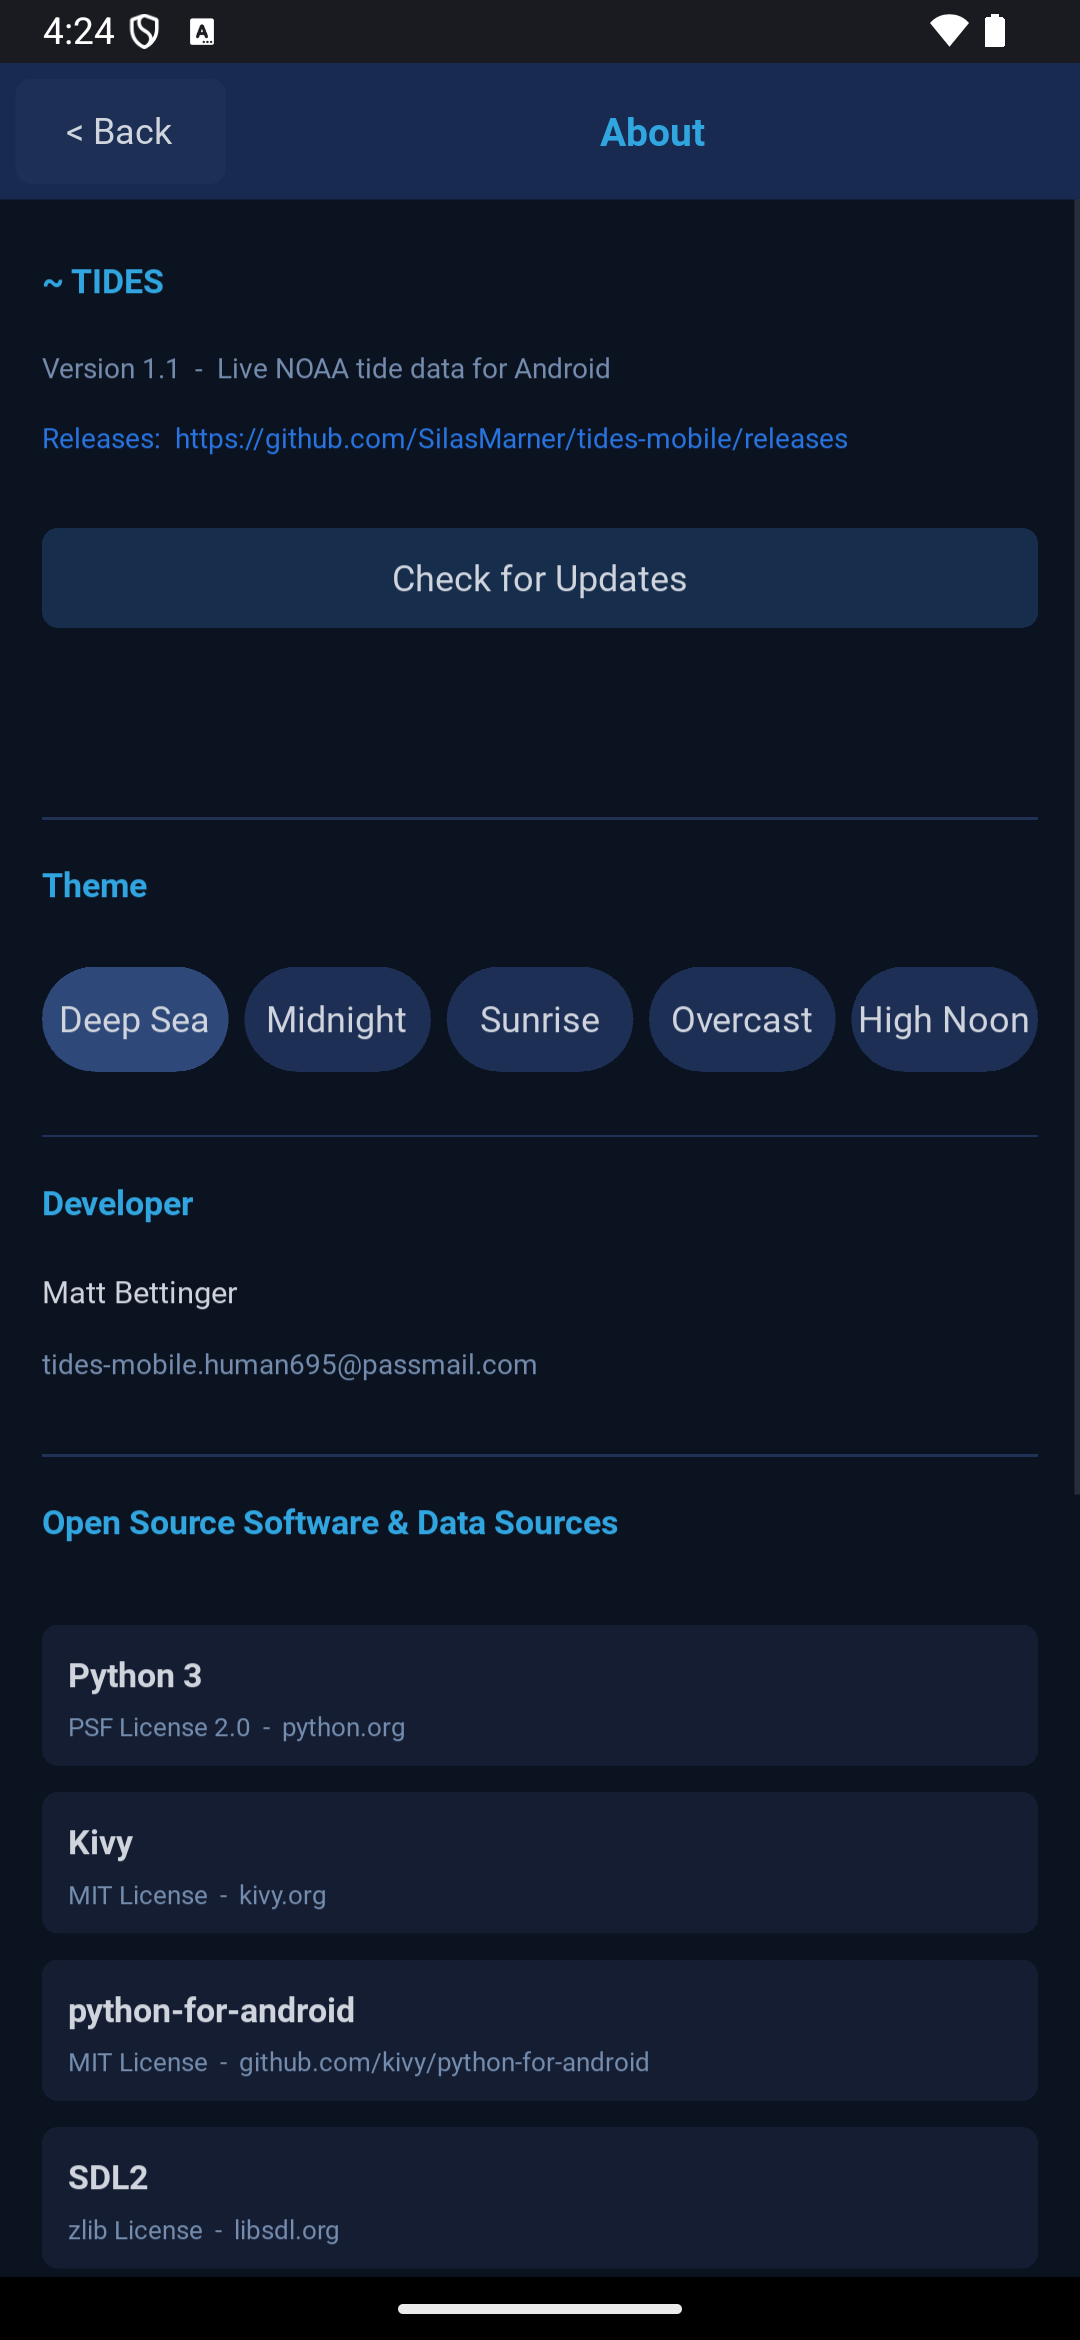
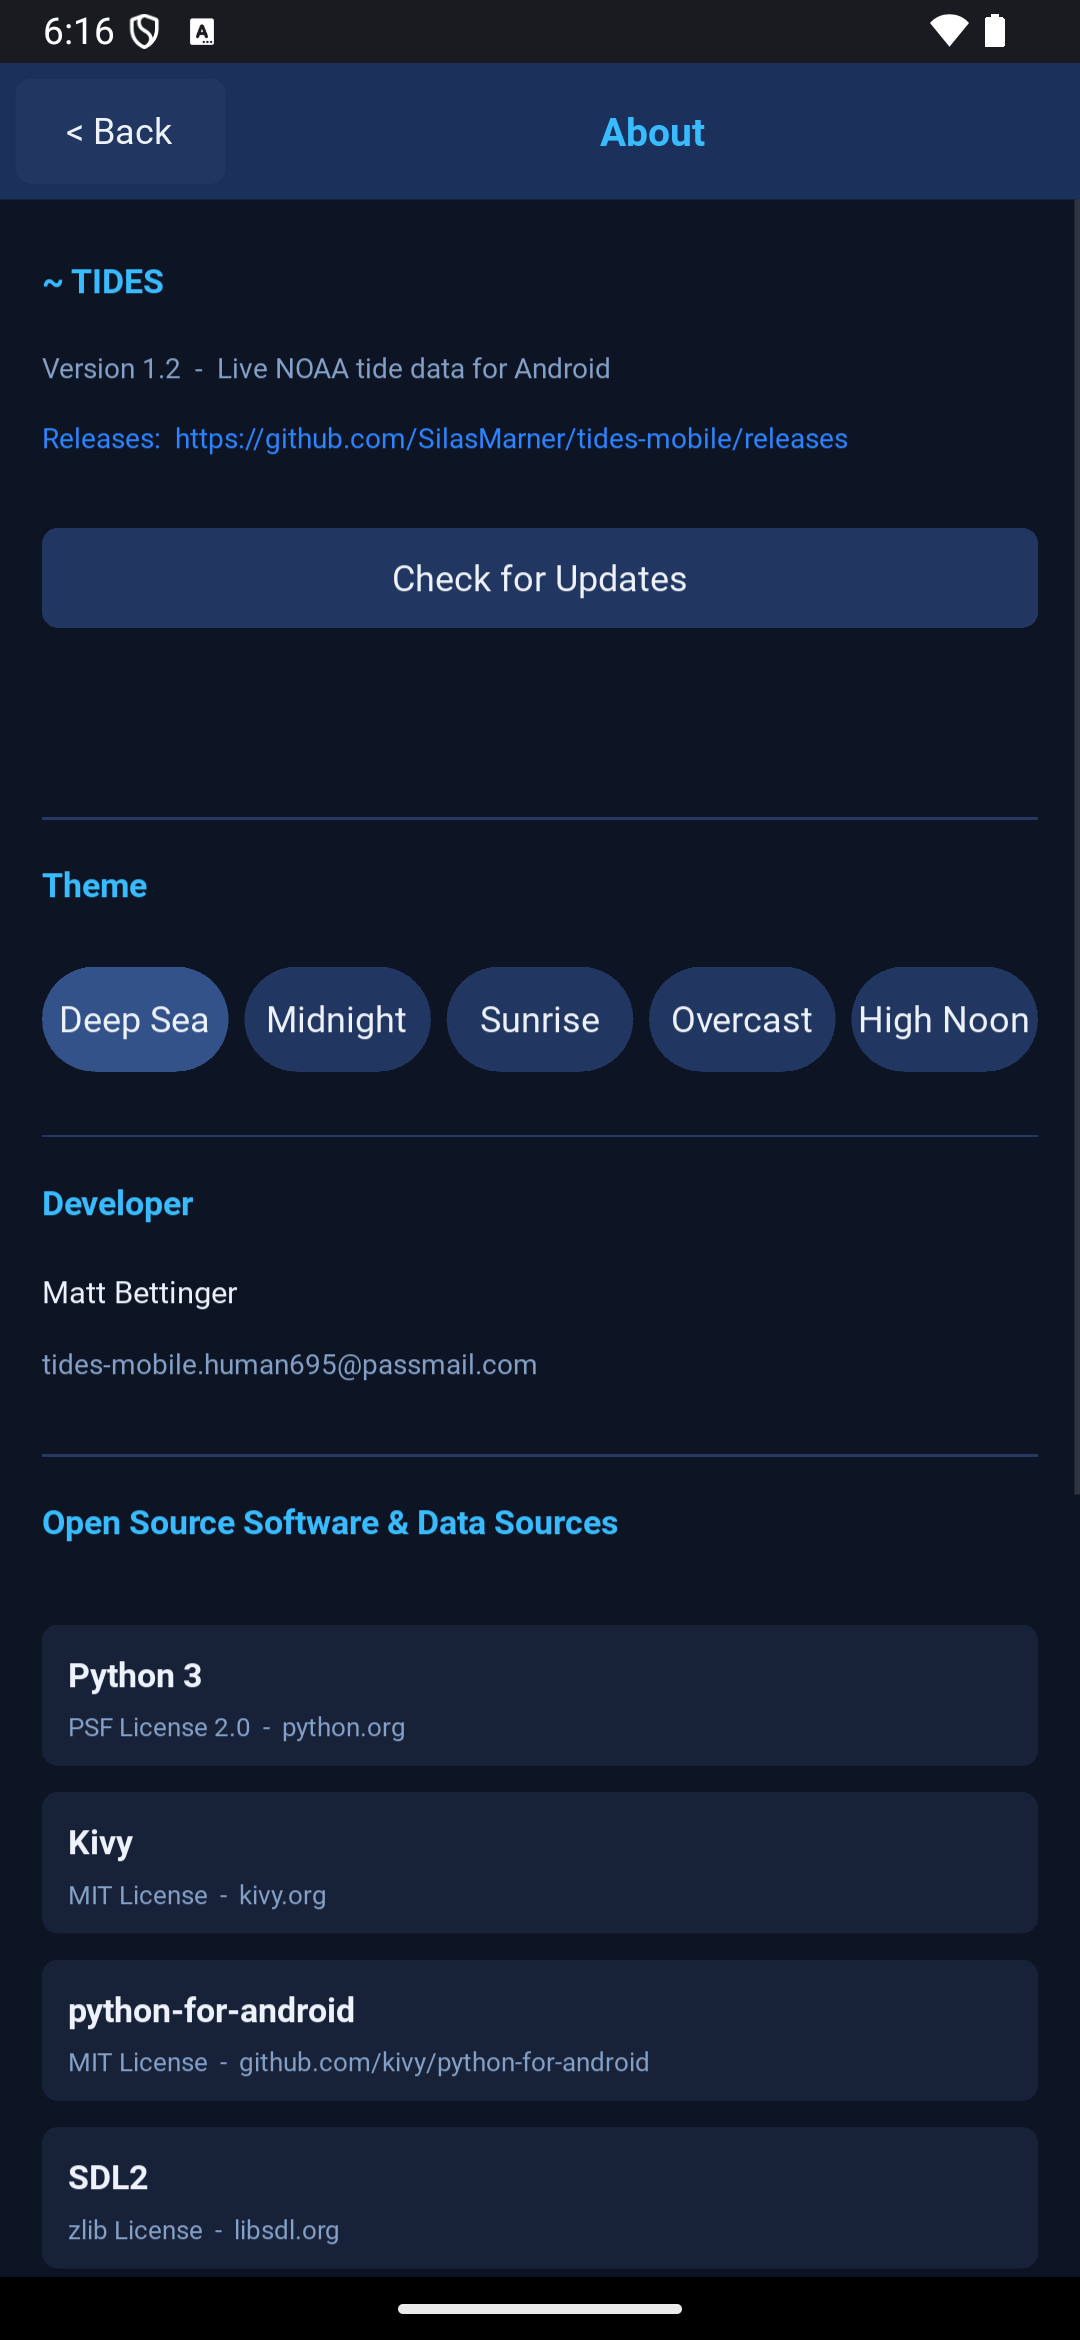
v1.2 — theme persistence, button legibility fixes
- Save settings with os.fsync before SIGKILL so theme survives restart
- Call set_data_dir(user_data_dir) before _apply_theme() in build() so
  the correct Android path is used for both reads and writes
- Fix _btn/_lbl/_StyledButton default parameters (bg=C_BTN etc.) captured
  Deep Sea values at import time; now resolved in function body so all
  themes get correct button colors
- Remove hardcoded Deep Sea-specific bg colors from i, NWS Forecast,
  Check for Updates, and Save to Favorites buttons
- Bump version to 1.2; update screenshots

diff --git a/main.py b/main.py
@@ -10,7 +10,7 @@ import urllib.request
 import webbrowser
 from datetime import datetime, date, timedelta
 
-_APP_VERSION = "1.1"
+_APP_VERSION = "1.2"
 _RELEASES_URL = "https://github.com/SilasMarner/tides-mobile/releases"
 _RELEASES_API = "https://api.github.com/repos/SilasMarner/tides-mobile/releases/latest"
 
@@ -138,6 +138,35 @@ def _load_theme():
     name = td.load_settings().get("theme", "Deep Sea")
     return name, THEMES.get(name, THEMES["Deep Sea"])
 
+def _apply_theme(name=None):
+    """Re-read settings (or apply name directly) and update all C_* globals in-place.
+    Called in build() after set_data_dir() so Android uses the correct path."""
+    global _THEME_NAME, _t
+    global C_BG, C_PANEL, C_CARD, C_HEADER, C_TEXT, C_DIM
+    global C_CYAN, C_YELLOW, C_BLUE, C_AMBER, C_GREEN, C_RED, C_PURPLE
+    global C_BTN, C_BTN_HI, C_NEARBY, C_FAV
+    if name is None:
+        name = td.load_settings().get("theme", "Deep Sea")
+    _THEME_NAME = name
+    _t = THEMES.get(name, THEMES["Deep Sea"])
+    C_BG      = _t["C_BG"]
+    C_PANEL   = _t["C_PANEL"]
+    C_CARD    = _t["C_CARD"]
+    C_HEADER  = _t["C_HEADER"]
+    C_TEXT    = _t["C_TEXT"]
+    C_DIM     = _t["C_DIM"]
+    C_CYAN    = _t["C_CYAN"]
+    C_YELLOW  = _t["C_YELLOW"]
+    C_BLUE    = _t["C_BLUE"]
+    C_AMBER   = _t["C_AMBER"]
+    C_GREEN   = _t["C_GREEN"]
+    C_RED     = _t["C_RED"]
+    C_PURPLE  = _t["C_PURPLE"]
+    C_BTN     = _t["C_BTN"]
+    C_BTN_HI  = _t["C_BTN_HI"]
+    C_NEARBY  = _t["C_NEARBY"]
+    C_FAV     = _t["C_FAV"]
+
 _THEME_NAME, _t = _load_theme()
 
 # ── Palette ───────────────────────────────────────────────────────────────────
@@ -164,10 +193,10 @@ _MESH_FMT = [('vPosition', 2, 'float'), ('vTexCoords0', 2, 'float')]
 
 # ── Shared helpers ────────────────────────────────────────────────────────────
 
-def _lbl(text, font_size=14, color=C_TEXT, bold=False,
+def _lbl(text, font_size=14, color=None, bold=False,
          halign="left", height=None, **kw):
-    l = Label(text=text, font_size=sp(font_size), color=color, bold=bold,
-              halign=halign, valign="middle", **kw)
+    l = Label(text=text, font_size=sp(font_size), color=color if color is not None else C_TEXT,
+              bold=bold, halign=halign, valign="middle", **kw)
     if height is not None:
         l.size_hint_y = None
         l.height = dp(height)
@@ -176,9 +205,11 @@ def _lbl(text, font_size=14, color=C_TEXT, bold=False,
 
 
 def _btn(text, on_press=None, font_size=14, height=44,
-         bg=C_BTN, bg_hi=C_BTN_HI, radius=8, **kw):
+         bg=None, bg_hi=None, radius=8, **kw):
     b = _StyledButton(text=text, font_size=sp(font_size), color=C_TEXT,
-                      bg_color=bg, bg_hi_color=bg_hi, radius=radius,
+                      bg_color=bg if bg is not None else C_BTN,
+                      bg_hi_color=bg_hi if bg_hi is not None else C_BTN_HI,
+                      radius=radius,
                       size_hint_y=None, height=dp(height), **kw)
     if on_press:
         b.bind(on_press=on_press)
@@ -229,14 +260,15 @@ class _SectionHeader(BoxLayout):
 
 
 class _StyledButton(ButtonBehavior, BoxLayout):
-    def __init__(self, text="", font_size=sp(14), color=C_TEXT,
-                 bg_color=C_BTN, bg_hi_color=C_BTN_HI, radius=8, **kw):
+    def __init__(self, text="", font_size=sp(14), color=None,
+                 bg_color=None, bg_hi_color=None, radius=8, **kw):
         super().__init__(**kw)
-        self._bg_color    = bg_color
-        self._bg_hi_color = bg_hi_color
+        self._bg_color    = bg_color    if bg_color    is not None else C_BTN
+        self._bg_hi_color = bg_hi_color if bg_hi_color is not None else C_BTN_HI
+        color = color if color is not None else C_TEXT
         self._radius      = radius
         with self.canvas.before:
-            self._ci = Color(*bg_color)
+            self._ci = Color(*self._bg_color)
             self._ri = RoundedRectangle(pos=self.pos, size=self.size,
                                         radius=[dp(radius)] * 4)
         self.bind(pos=self._upd, size=self._upd)
@@ -570,8 +602,7 @@ class SearchScreen(Screen):
         bar.add_widget(_btn("Search", on_press=self._do_search,
                             size_hint_x=0.20, height=40, radius=6))
         bar.add_widget(_btn("i", on_press=self._open_about,
-                            size_hint_x=None, width=dp(36), height=40, radius=6,
-                            bg=(0.10, 0.18, 0.32, 1), bg_hi=(0.16, 0.28, 0.46, 1)))
+                            size_hint_x=None, width=dp(36), height=40, radius=6))
         root.add_widget(bar)
 
         # ── Autocomplete suggestion panel ──────────────────────────────────────
@@ -1223,8 +1254,7 @@ class TideScreen(Screen):
             info_box.add_widget(_btn(
                 "Save to favorites",
                 on_press=lambda *_: self._save_and_rebuild(),
-                height=36, radius=6,
-                bg=(0.10, 0.20, 0.12, 1), bg_hi=(0.15, 0.30, 0.18, 1)))
+                height=36, radius=6))
         self._content.add_widget(info_box)
 
         self._content.add_widget(self._build_conditions(d))
@@ -1378,8 +1408,7 @@ class TideScreen(Screen):
                 body.add_widget(_btn(
                     "View Full NWS Forecast  >",
                     on_press=lambda *_, _n=n: self._show_nws_popup(_n),
-                    height=34, radius=6,
-                    bg=(0.10, 0.18, 0.32, 1), bg_hi=(0.16, 0.28, 0.46, 1)))
+                    height=34, radius=6))
         return outer
 
     def _show_nws_popup(self, nws):
@@ -1630,8 +1659,7 @@ class AboutScreen(Screen):
         self._upd_status = row("", C_DIM, 11)
         upd_row = BoxLayout(size_hint_y=None, height=dp(40), spacing=dp(8))
         self._upd_btn = _btn("Check for Updates", on_press=self._check_updates,
-                             height=38, radius=6,
-                             bg=(0.10, 0.20, 0.34, 1), bg_hi=(0.16, 0.30, 0.48, 1))
+                             height=38, radius=6)
         upd_row.add_widget(self._upd_btn)
         body.add_widget(upd_row)
         body.add_widget(self._upd_status)
@@ -1720,11 +1748,18 @@ class AboutScreen(Screen):
                       title_color=C_CYAN, separator_color=C_CYAN)
         def _restart(*_):
             popup.dismiss()
-            import sys
+            import sys, signal
             try:
-                import android  # noqa — only on device
-                App.get_running_app().stop()
-            except ImportError:
+                from jnius import autoclass  # noqa — only on Android
+                PythonActivity = autoclass('org.kivy.android.PythonActivity')
+                Intent = autoclass('android.content.Intent')
+                mActivity = PythonActivity.mActivity
+                intent = mActivity.getPackageManager().getLaunchIntentForPackage(
+                    mActivity.getPackageName())
+                intent.addFlags(0x10000000 | 0x40000000)  # NEW_TASK | CLEAR_TOP
+                mActivity.startActivity(intent)
+                os.kill(os.getpid(), signal.SIGKILL)  # hard-kill so Python state resets
+            except Exception:
                 os.execv(sys.executable, [sys.executable] + sys.argv)
         btn.bind(on_press=_restart)
         popup.open()
@@ -1772,11 +1807,12 @@ class AboutScreen(Screen):
 
 class TidesApp(App):
     def build(self):
-        Window.clearcolor = C_BG
         self.title = "Tides"
-        android_private = os.environ.get('ANDROID_PRIVATE')
-        if android_private:
-            td.set_data_dir(android_private)
+        # user_data_dir is Kivy-guaranteed writable on every platform.
+        # Set it before _apply_theme() so load_settings() finds the right file.
+        td.set_data_dir(self.user_data_dir)
+        _apply_theme()
+        Window.clearcolor = C_BG
         Window.bind(on_keyboard=self._on_keyboard)
         sm = ScreenManager()
         sm.add_widget(SearchScreen(name="search"))

diff --git a/tides_data.py b/tides_data.py
@@ -583,8 +583,7 @@ def remove_favorite(station_id):
 # ── Settings (theme, etc.) ────────────────────────────────────────────────────
 
 def _settings_path():
-    p = fav_path().parent
-    return p / "settings.json"
+    return fav_path().parent / "settings.json"
 
 
 def load_settings():
@@ -597,7 +596,12 @@ def load_settings():
 def save_settings(updates):
     s = load_settings()
     s.update(updates)
+    p = _settings_path()
     try:
-        _settings_path().write_text(json.dumps(s, indent=2))
+        data = json.dumps(s, indent=2)
+        with open(p, 'w') as f:
+            f.write(data)
+            f.flush()
+            os.fsync(f.fileno())
     except Exception:
         pass
